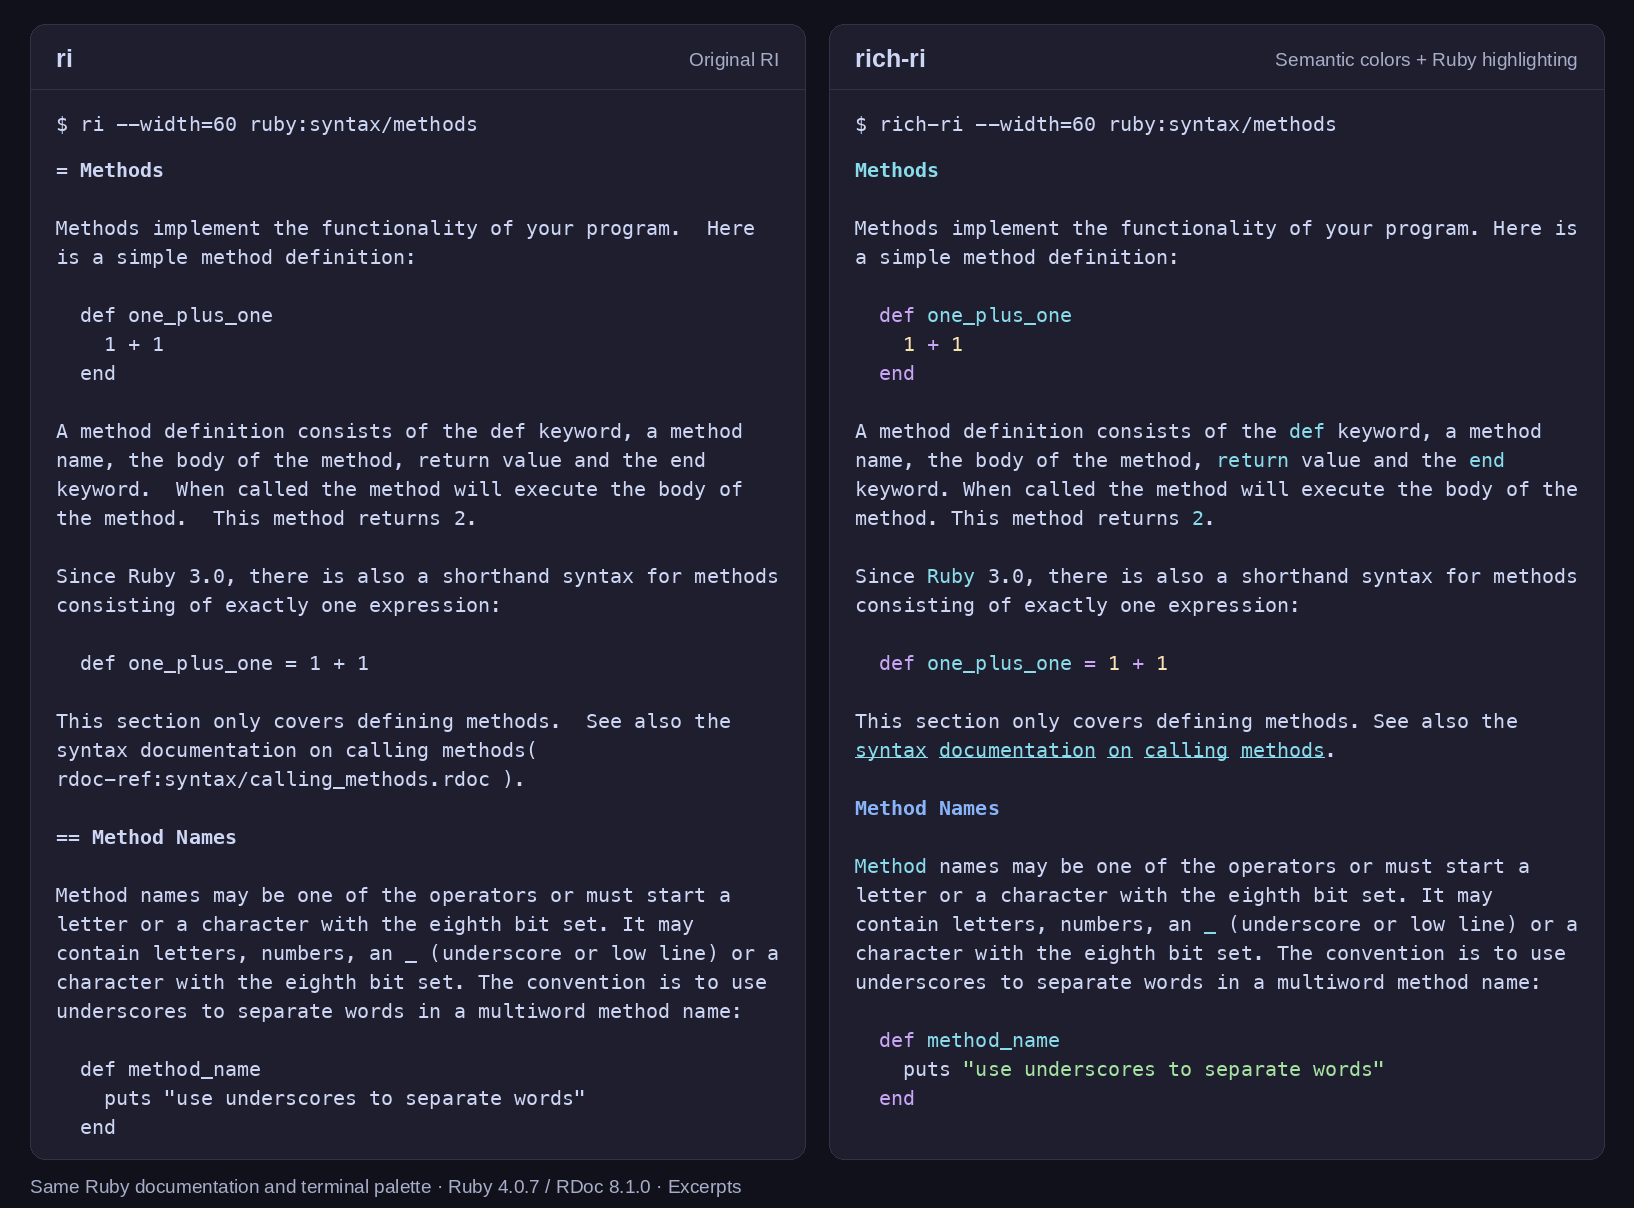
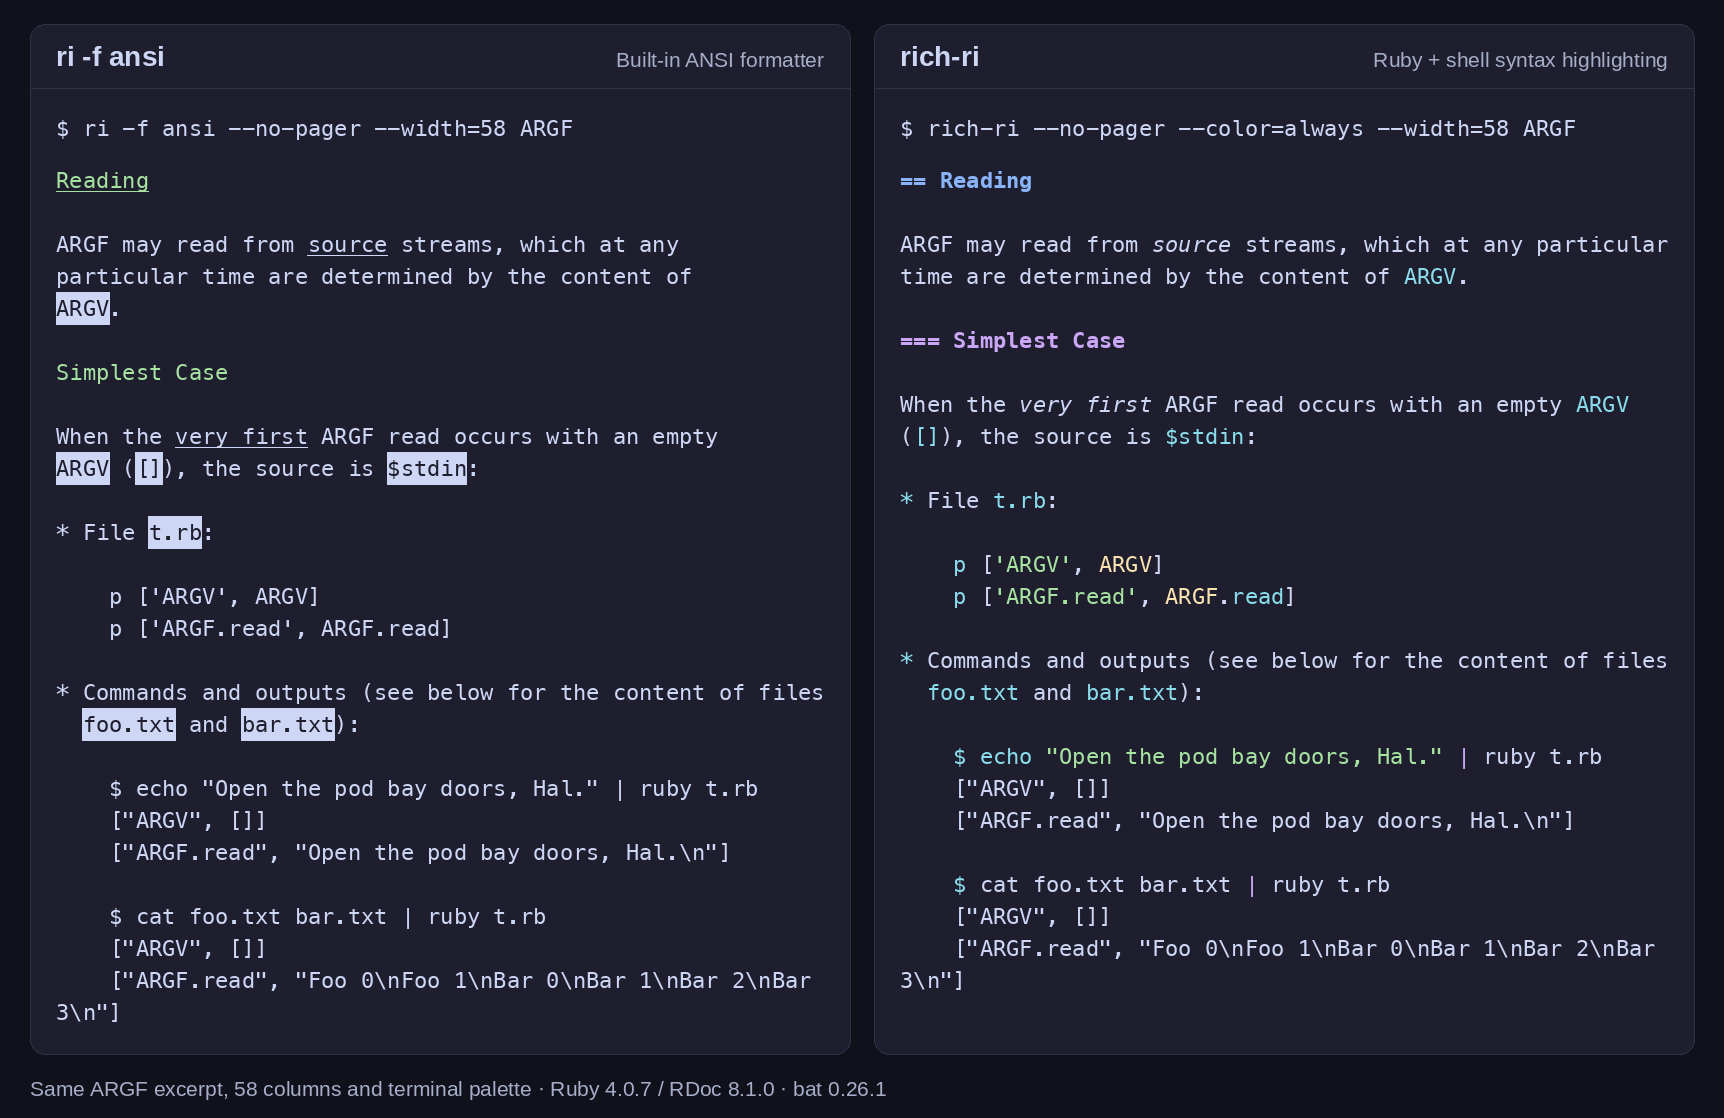
docs: compare rich-ri with the built-in ANSI formatter

diff --git a/docs/images/render-comparison.py b/docs/images/render-comparison.py
@@ -1,0 +1,151 @@
+#!/usr/bin/env python3
+"""Render the README comparison from real RI output (requires Pillow and fontconfig)."""
+
+import os
+from pathlib import Path
+import re
+import subprocess
+import tempfile
+
+from PIL import Image, ImageDraw, ImageFont
+
+ROOT = Path(__file__).resolve().parents[2]
+OUTPUT = ROOT / "docs/images/ri-vs-rich-ri.png"
+COLUMNS = 58
+SGR = re.compile(r"\x1b\[([\d;]*)m")
+BACKGROUND, PANEL, FOREGROUND, MUTED = "#11111b", "#1e1e2e", "#cdd6f4", "#a6adc8"
+PALETTE = [
+    "#45475a", "#f38ba8", "#a6e3a1", "#f9e2af", "#89b4fa", "#cba6f7", "#89dceb", "#bac2de",
+    "#9399b2", "#f38ba8", "#a6e3a1", "#f9e2af", "#89b4fa", "#cba6f7", "#89dceb", "#ffffff",
+]
+
+
+def run(command, environment):
+    return subprocess.check_output(command, cwd=ROOT, env=environment, text=True)
+
+
+def capture():
+    environment = {key: value for key, value in os.environ.items() if not key.startswith("RICH_RI_")}
+    environment.update(RI="", RI_PAGER="cat", PAGER="cat", NO_COLOR="", TERM="xterm-256color", BAT_THEME="ansi")
+    # Shell highlighting is part of this example, so require bat instead of silently falling back.
+    bat_version = run(["bat", "--version"], environment).splitlines()[0]
+    ruby_versions = run(
+        ["bundle", "exec", "ruby", "-rrdoc", "-e", 'print "Ruby #{RUBY_VERSION} / RDoc #{RDoc::VERSION}"'],
+        environment,
+    )
+    commands = {
+        "ri -f ansi": ["bundle", "exec", "ri", "--no-pager", "-f", "ansi", f"--width={COLUMNS}", "ARGF"],
+        "rich-ri": ["bundle", "exec", "ruby", "-Ilib", "exe/rich-ri", "--no-config", "--no-pager",
+                    "--color=always", f"--width={COLUMNS}", "ARGF"],
+    }
+    directory = Path(tempfile.mkdtemp(prefix="rich-ri-comparison-"))
+    excerpts = {}
+    for name, command in commands.items():
+        raw = run(command, environment)
+        (directory / f"{name}.full.ansi").write_text(raw)
+        lines = raw.splitlines()
+        headings = [re.sub(r"^={1,6} ", "", SGR.sub("", line)) for line in lines]
+        start, end = headings.index("Reading"), headings.index("About the Examples")
+        excerpt = "\n".join(lines[start:end]).rstrip() + "\n"
+        assert "\x1b[" in excerpt, f"Missing colors in {name}"
+        (directory / f"{name}.ansi").write_text(excerpt)
+        excerpts[name] = excerpt
+    print(f"Raw captures: {directory}")
+    return excerpts, ruby_versions, bat_version
+
+
+def default_style():
+    return dict(fg=FOREGROUND, bg=PANEL, bold=False, italic=False, underline=False, reverse=False)
+
+
+def terminal_rows(raw):
+    """Interpret SGR attributes, including RI's reverse video, then soft-wrap like a terminal."""
+    style = default_style()
+    rows = []
+    for line in raw.splitlines():
+        cells = []
+        for token in re.findall(r"\x1b\[[\d;]*m|.", line):
+            match = SGR.fullmatch(token)
+            if not match:
+                # This English excerpt is ASCII; fail if it ever needs wide-cell handling.
+                assert " " <= token <= "~", f"Unexpected character: {token!r}"
+                cells.append((token, style.copy()))
+                continue
+            for code in map(lambda value: int(value or "0"), match[1].split(";")):
+                if code == 0:
+                    style = default_style()
+                elif code in (1, 3, 4, 7, 22, 23, 24, 27):
+                    key = {1: "bold", 3: "italic", 4: "underline", 7: "reverse",
+                           22: "bold", 23: "italic", 24: "underline", 27: "reverse"}[code]
+                    style[key] = code < 20
+                elif code == 39:
+                    style["fg"] = FOREGROUND
+                elif code == 49:
+                    style["bg"] = PANEL
+                elif 30 <= code <= 37:
+                    style["fg"] = PALETTE[code - 30]
+                elif 90 <= code <= 97:
+                    style["fg"] = PALETTE[code - 90 + 8]
+                else:
+                    raise ValueError(f"Unsupported SGR {code}; update the renderer before using this capture")
+        rows.extend([cells[index:index + COLUMNS] for index in range(0, len(cells), COLUMNS)] or [[]])
+    return rows
+
+
+def font(pattern, size):
+    path = subprocess.check_output(["fc-match", "-f", "%{file}", pattern], text=True)
+    return ImageFont.truetype(path, size)
+
+
+def render(excerpts, ruby_versions, bat_version):
+    fonts = {
+        (False, False): font("monospace:style=Regular", 22),
+        (True, False): font("monospace:style=Bold", 22),
+        (False, True): font("monospace:style=Italic", 22),
+        (True, True): font("monospace:style=Bold Italic", 22),
+    }
+    normal = fonts[False, False]
+    label, small = font("sans:style=Bold", 28), font("sans:style=Regular", 21)
+    cell, line_height = normal.getlength("M"), 32
+    padding, gap, margin = 26, 24, 30
+    panel_width = round(COLUMNS * cell + 2 * padding)
+    captures = {name: terminal_rows(raw) for name, raw in excerpts.items()}
+    content_top = 164
+    height = content_top + max(map(len, captures.values())) * line_height + 90
+    image = Image.new("RGB", (2 * margin + 2 * panel_width + gap, height), BACKGROUND)
+    draw = ImageDraw.Draw(image)
+    commands = {
+        "ri -f ansi": f"$ ri -f ansi --no-pager --width={COLUMNS} ARGF",
+        "rich-ri": f"$ rich-ri --no-pager --color=always --width={COLUMNS} ARGF",
+    }
+    for index, (name, rows) in enumerate(captures.items()):
+        left = margin + index * (panel_width + gap)
+        draw.rounded_rectangle((left, 24, left + panel_width, height - 64), radius=15,
+                               fill=PANEL, outline="#313244", width=1)
+        draw.text((left + padding, 40), name, font=label, fill=FOREGROUND)
+        detail = "Built-in ANSI formatter" if index == 0 else "Ruby + shell syntax highlighting"
+        detail_width = draw.textlength(detail, font=small)
+        draw.text((left + panel_width - padding - detail_width, 47), detail, font=small, fill=MUTED)
+        draw.line((left, 88, left + panel_width, 88), fill="#313244")
+        draw.text((left + padding, 111), commands[name], font=normal, fill=FOREGROUND)
+        for row_index, row in enumerate(rows):
+            y = content_top + row_index * line_height
+            for column, (char, style) in enumerate(row):
+                x = left + padding + column * cell
+                fg, bg = style["fg"], style["bg"]
+                if style["reverse"]:
+                    fg, bg = bg, fg
+                if bg != PANEL:
+                    draw.rectangle((x, y, x + cell, y + line_height), fill=bg)
+                face = fonts[style["bold"], style["italic"]]
+                draw.text((x, y + 24), char, font=face, fill=fg, anchor="ls")
+                if style["underline"]:
+                    draw.line((x, y + 27, x + cell, y + 27), fill=fg)
+    caption = f"Same ARGF excerpt, {COLUMNS} columns and terminal palette · {ruby_versions} · {bat_version.split(' (')[0]}"
+    draw.text((margin, height - 42), caption, font=small, fill=MUTED)
+    image.save(OUTPUT, optimize=True)
+    print(f"{OUTPUT}: {image.width}x{image.height}, {OUTPUT.stat().st_size} bytes")
+
+
+if __name__ == "__main__":
+    render(*capture())

diff --git a/README.md b/README.md
@@ -10,10 +10,16 @@ It requires the RDoc library, which RubyGems installs as a dependency. Many Ruby
 installations already include RDoc and `ri`. rich-ri uses that library directly,
 so the separate `ri` executable does not need to be on your `PATH`.
 
-![The same Ruby methods documentation in ri on the left and rich-ri on the right, with colored headings, references, inline code and Ruby examples.](docs/images/ri-vs-rich-ri.png)
+![The same ARGF documentation in ri -f ansi on the left and rich-ri on the right. The original formatter colors headings and reverses inline code; rich-ri distinguishes references, Ruby strings, constants and method calls, and shell commands while leaving command output plain.](docs/images/ri-vs-rich-ri.png)
 
-Actual output from `ri` (left) and `rich-ri` (right), using the same documentation,
-60-column width and terminal palette. The image shows an excerpt of `ruby:syntax/methods`.
+Actual output from **`ri -f ansi`** (left) and **`rich-ri`** (right): the same
+`ARGF` excerpt, 58-column width and terminal palette. bat is installed for shell
+highlighting. [Regenerate the comparison](docs/images/README.md).
+
+`ri -f ansi` already styles headings and inline text. rich-ri adds syntax
+highlighting inside Ruby and shell examples, semantic colors for references and
+searchable heading markers. Shell command output keeps its original text and
+stays uncolored.
 
 ```sh
 rich-ri Array#map

diff --git a/docs/images/README.md b/docs/images/README.md
@@ -1,0 +1,25 @@
+# README comparison
+
+`ri-vs-rich-ri.png` compares the original `ri -f ansi` formatter with rich-ri's
+default terminal theme. Both panels show the same contiguous excerpt of the
+installed `ARGF` documentation, from **Reading** through **Simplest Case**.
+
+The renderer captures both commands with the project's Bundler environment and
+the same 58-column width, then displays their actual ANSI output using the same
+dark terminal palette and monospace font. It preserves bold, italic,
+underline and reverse-video attributes, including the original formatter's
+inline-code styling. Long code and output lines soft-wrap at the panel width.
+The content is not rewritten or aligned by adding or removing document lines.
+
+To refresh the image, install the bundle, Ruby core RI documentation, bat,
+Python 3, Pillow, fontconfig and a monospace font with bold and italic faces.
+The Python tools and fonts are only needed to regenerate this image.
+
+```sh
+python3 docs/images/render-comparison.py
+```
+
+The script clears reader configuration overrides, requires bat for the shell
+example, and saves the raw captures in a temporary directory printed at the end.
+Its footer records the Ruby, RDoc and bat versions. Review the PNG before
+committing it; documentation text can change between Ruby versions.

diff --git a/CONTRIBUTING.md b/CONTRIBUTING.md
@@ -85,6 +85,8 @@ changes that have no user-visible effect.
 
 Describe the problem, resulting behavior and validation in the pull request.
 Update README, help and the manual where users will look for the changed feature.
+When page rendering changes, [refresh the README comparison](docs/images/README.md)
+against `ri -f ansi` and inspect the resulting image.
 The generated manual and completion descriptions share the option parser to
 prevent drift. A test runs the README's project example as written and compares
 its output. Package checks install the built gem in isolation and exercise it.
